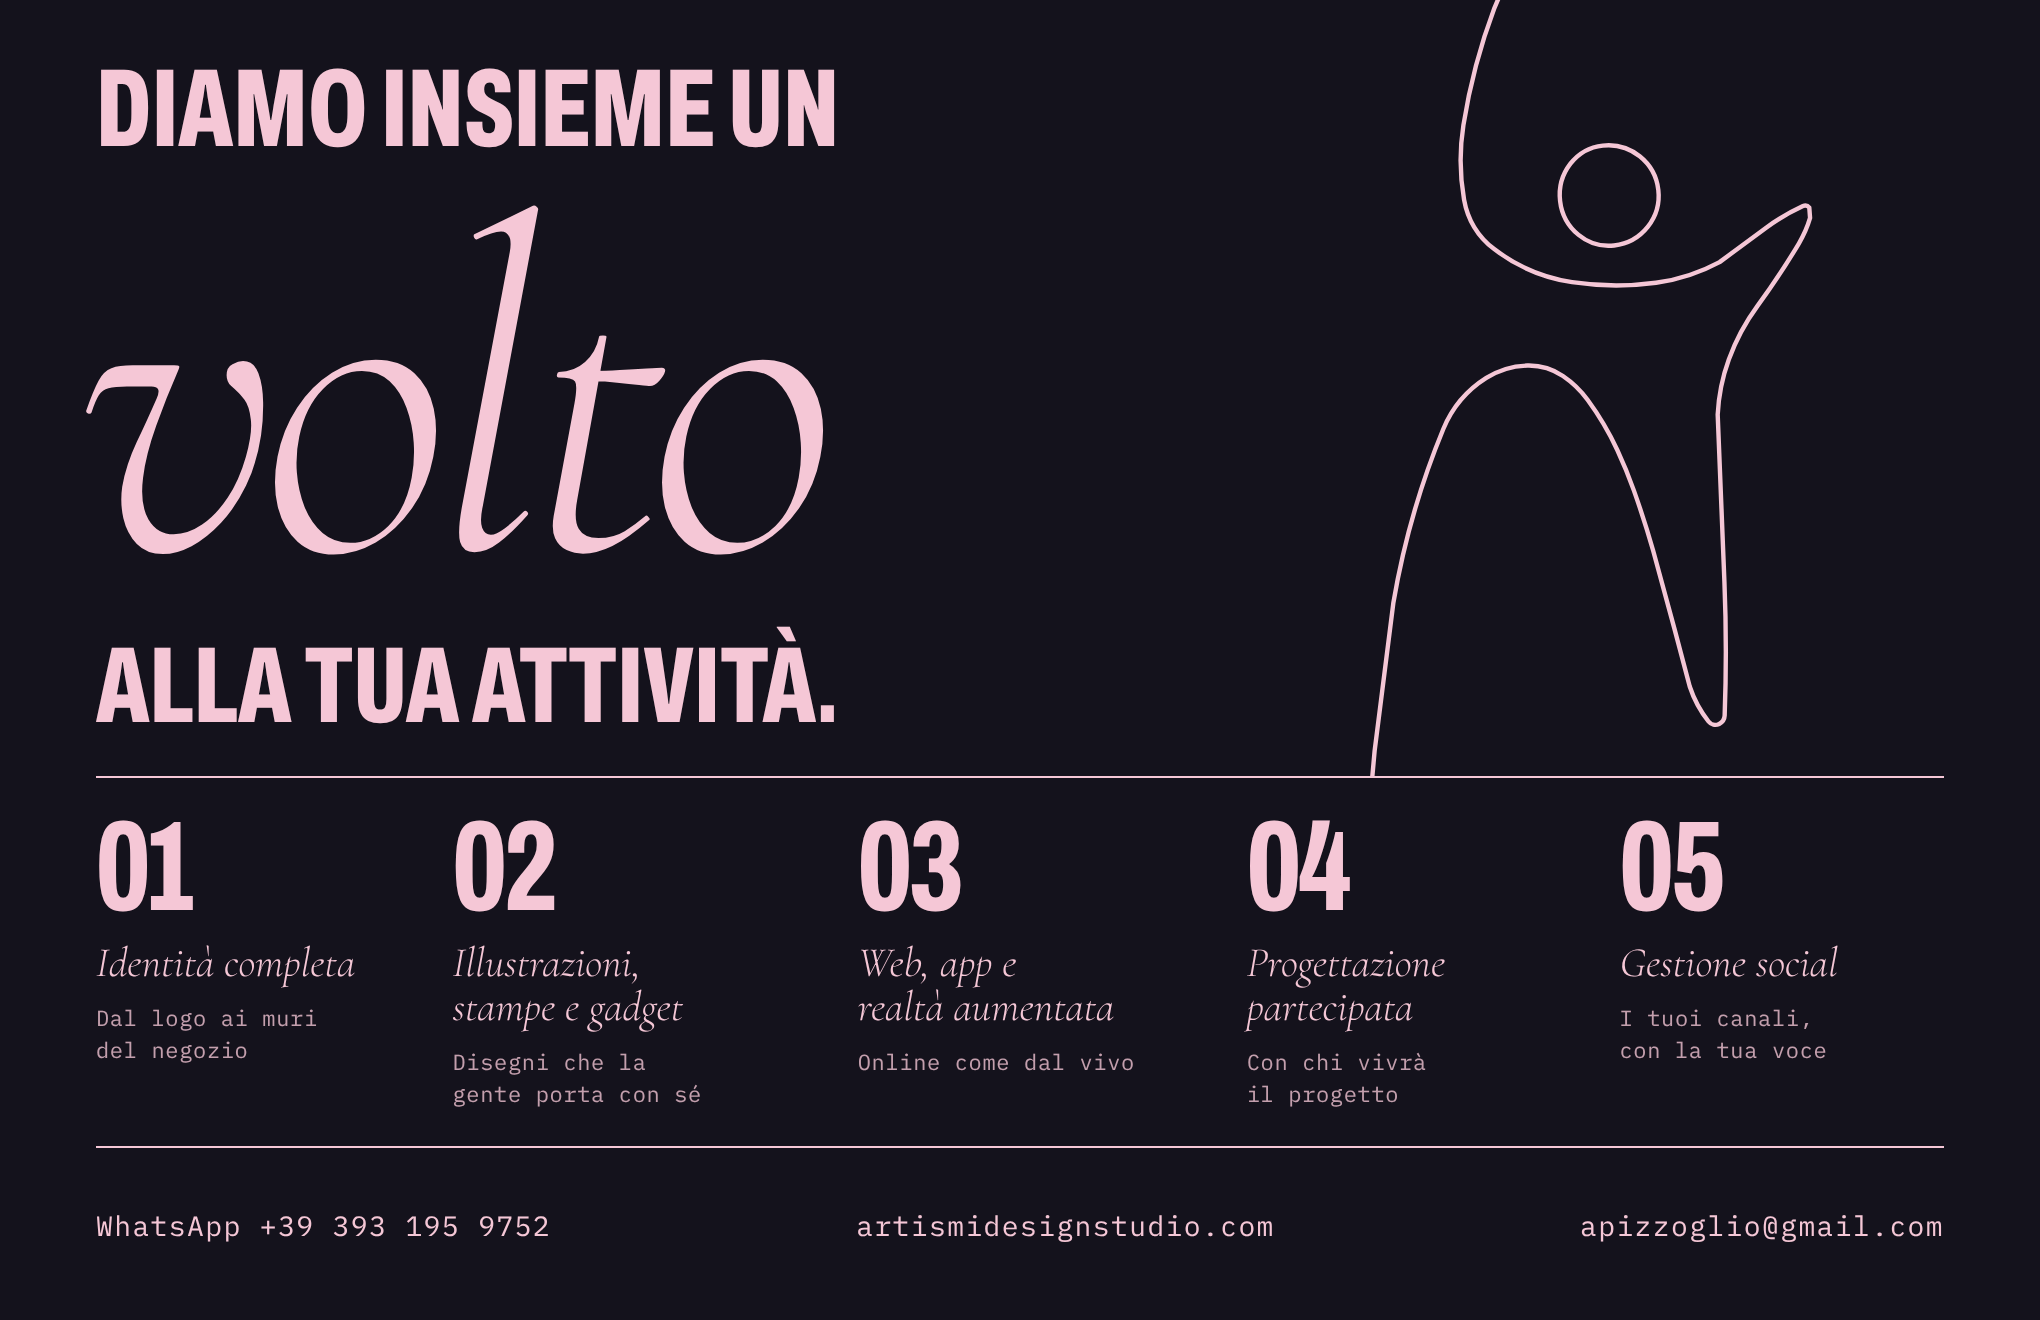
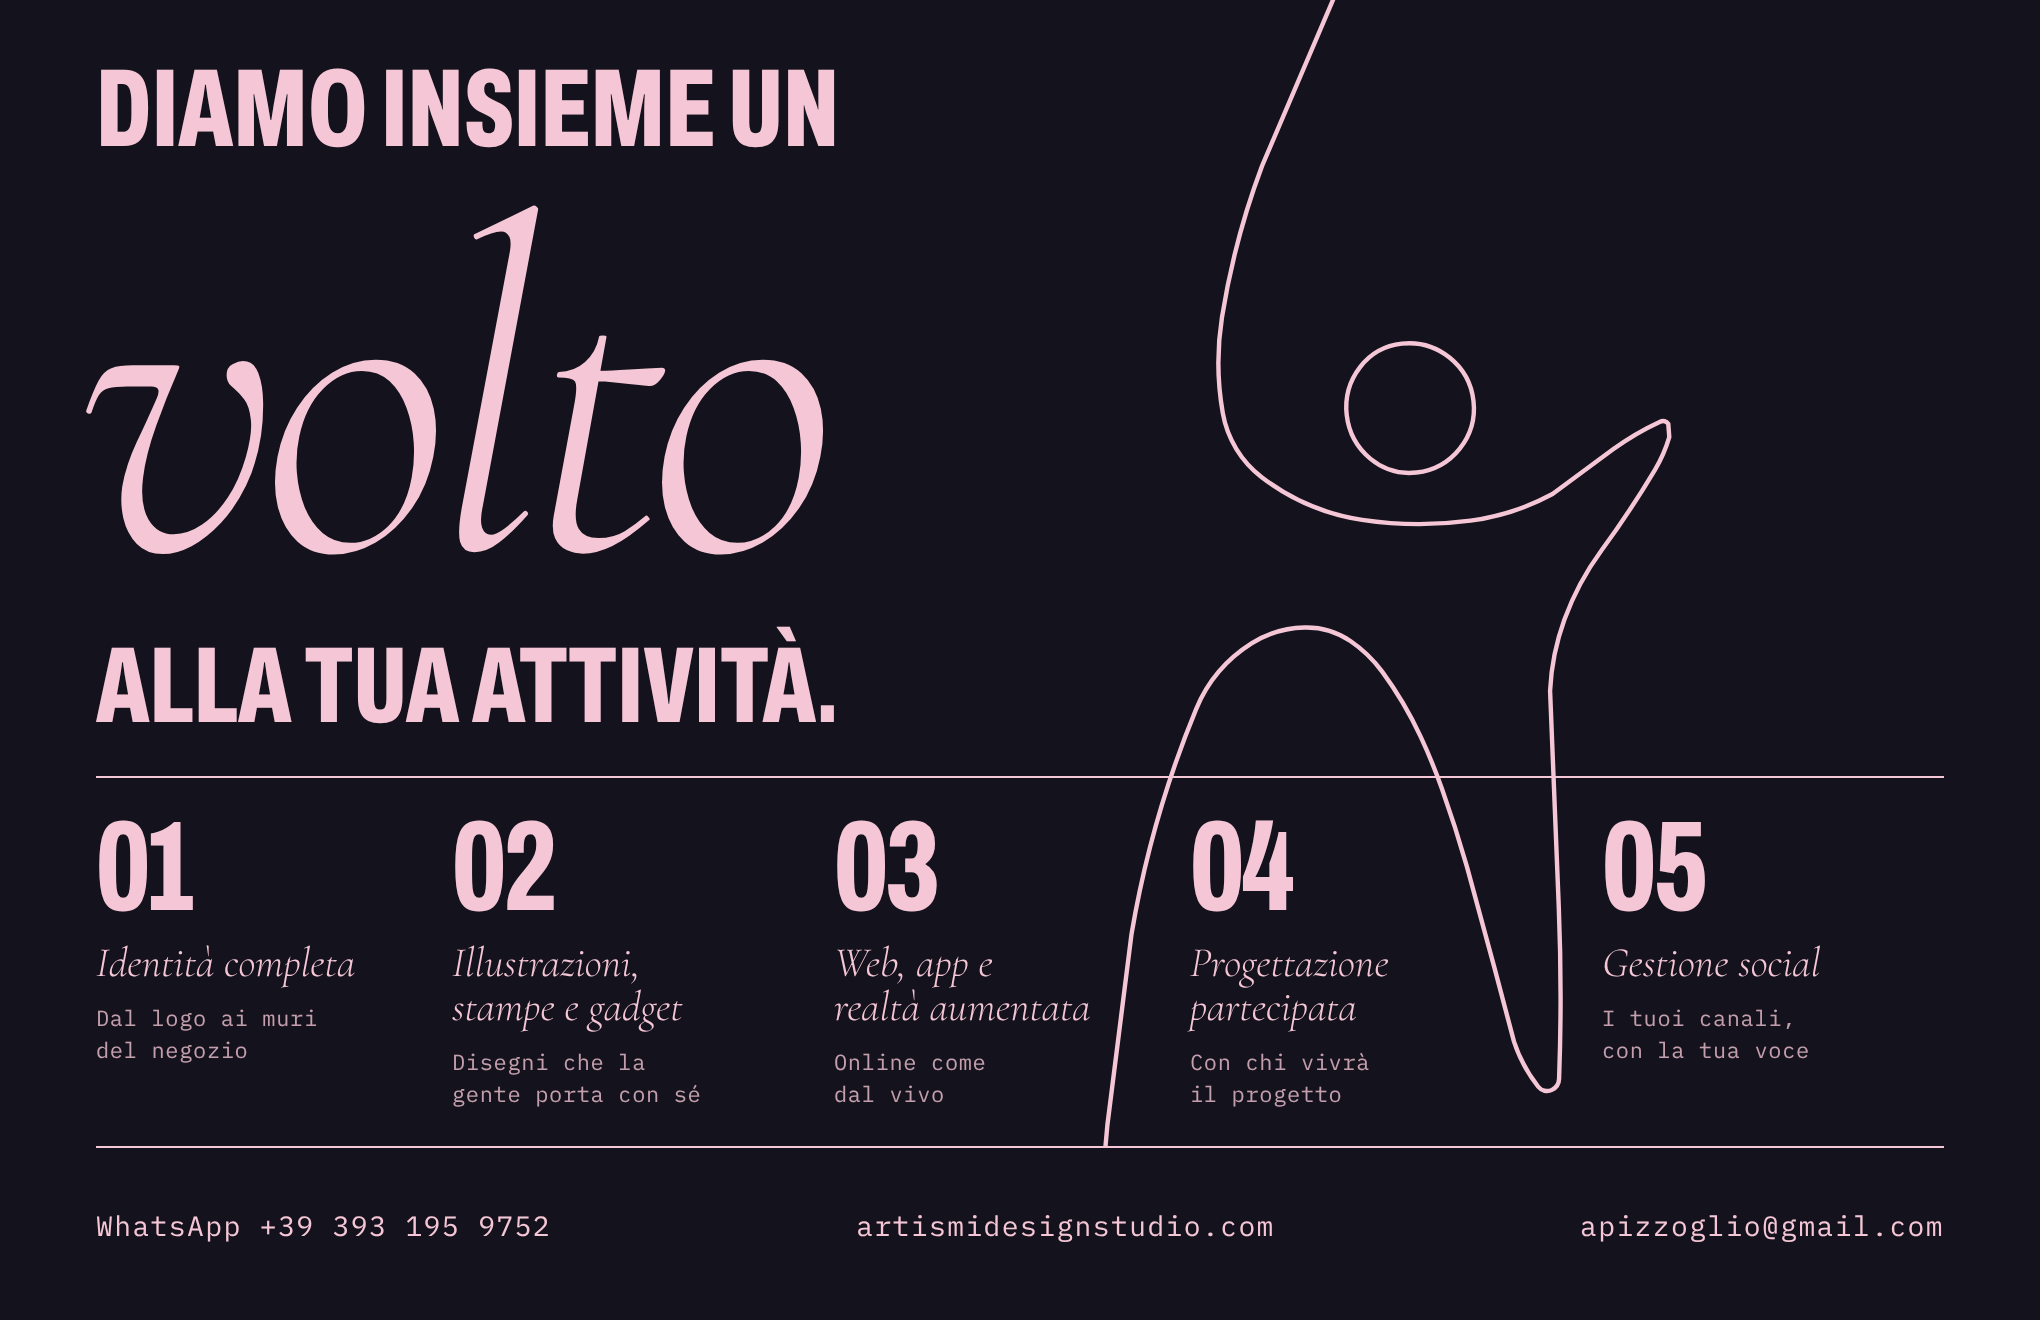
Biglietto, retro: l'omino scende fra i servizi, la gamba della m fra 03 e 04 e la punta della i fra 04 e 05; colonne dell'indice calibrate sulla figura
Claude-Session: https://claude.ai/code/session_017BM5XjeHCbJ6zegj574eXv

diff --git a/ar-print/biglietto-retro.html b/ar-print/biglietto-retro.html
@@ -15,13 +15,15 @@
   .m { font-family: "IBM Plex Mono", monospace; font-size: 14px; letter-spacing: .05em; line-height: 1.6; }
   .u { text-transform: uppercase; letter-spacing: .2em; font-size: 12px; }
 
-  .det { position: absolute; left: 0; top: 0; width: 1020px; height: 388px; overflow: hidden; }  /* la figura finisce sul filetto */
-  .det path { fill: none; stroke: #F5C7D6; stroke-width: 1.419; stroke-linejoin: round; stroke-linecap: round; }
+  .det { position: absolute; left: 0; top: 0; width: 1020px; height: 574px; overflow: hidden; }  /* la figura scende fra i servizi */
+  .det path { fill: none; stroke: #F5C7D6; stroke-width: 1.100; stroke-linejoin: round; stroke-linecap: round; }
   .claim { position: absolute; left: 48px; top: 34px; height: 330px; display: inline-flex; flex-direction: column; justify-content: space-between; align-items: flex-start; }
   .claim .a { display: block; font-size: 44px; line-height: .74; white-space: nowrap; letter-spacing: 0; }
   .claim .volto { display: block; font-size: 236px; line-height: .74; letter-spacing: -.035em; white-space: nowrap; margin-left: -10px; }
   .linea { position: absolute; left: 48px; right: 48px; height: 0; border-top: 1px solid #F5C7D6; }
-  .indice { position: absolute; left: 48px; right: 48px; top: 408px; list-style: none; display: grid; grid-template-columns: 1fr 1.15fr 1.1fr 1.05fr 1fr; gap: 16px; }
+  .indice { position: absolute; left: 48px; right: 48px; top: 408px; list-style: none; display: grid; grid-template-columns: 162px 175px 162px 190px 1fr; gap: 16px; }
+  .indice li:nth-child(3) > .m { max-width: 110px; }
+  .indice li:nth-child(4) > span { max-width: 128px; }  /* lo 04 sta fra la gamba della m e la gamba della i */
   .indice .a { display: block; font-size: 64px; line-height: .8; letter-spacing: -.02em; }
   .indice .c { display: block; margin-top: 12px; font-size: 21px; line-height: 1.05; text-wrap: balance; }
   .indice .m { display: block; margin-top: 9px; font-size: 11px; line-height: 1.45; letter-spacing: .03em; opacity: .78; text-wrap: balance; }
@@ -29,7 +31,7 @@
 
 </style></head>
 <body><div class="card">
-  <svg class="det" viewBox="0 0 1020 388"><g transform="translate(-505.96 -291.63) scale(1.5500)"><path d="M 842.7491491870207,88.40792444867843 A 2.43,2.43 0.0 0,1 845.56,88.88 A 4.19,4.19 0.0 0,1 846.61,92.94 A 397.87,397.87 0.0 0,1 833.72,131.68 L 808.52,190.67 A 193.84,193.84 0.0 0,0 798.49,228.56 A 72.37,72.37 0.0 0,0 798.7,252.51 A 25.81,25.81 0.0 0,0 808.43,268.51 A 54.76,54.76 0.0 0,0 833.54,279.17 A 95.45,95.45 0.0 0,0 860.63,279.37 A 60.43,60.43 0.0 0,0 881.13,272.7 L 896.27,261.52 A 70.24,70.24 0.0 0,1 908.03,254.62 A 1.67,1.67 0.0 0,1 910.07,255.13 L 910.32,258.47 A 35.85,35.85 0.0 0,1 906.7,266.71 A 259.81,259.81 0.0 0,1 893.31,286.9 A 69.32,69.32 0.0 0,0 884.11,304.09 A 60.26,60.26 0.0 0,0 880.52,321.9 L 882.69,375.85 A 556.83,556.83 0.0 0,1 882.77,418.93 A 3.2,3.2 0.0 0,1 881.0,421.67 A 2.8,2.8 0.0 0,1 877.56,420.89 A 36.89,36.89 0.0 0,1 871.5,409.61 L 866.6,391.1 L 859.71,365.8 A 322.56,322.56 0.0 0,0 853.44,346.25 A 149.95,149.95 0.0 0,0 848.13,333.3 A 95.23,95.23 0.0 0,0 838.54,317.11 A 32.71,32.71 0.0 0,0 830.6,309.45 A 19.54,19.54 0.0 0,0 819.11,306.07 A 26.02,26.02 0.0 0,0 805.88,310.07 A 35.47,35.47 0.0 0,0 792.01,326.54 A 261.41,261.41 0.0 0,0 775.88,382.72 L 769.85,430.42 L 766.57,467.03 L 765.2,507.64 L 764.3622779249334,514.4871663821559"/><path d="M 847.11,267.33 A 15.33,15.33 0.0 0,1 835.64,263.93 A 16.67,16.67 0.0 0,1 829.68,252.96 A 16.54,16.54 0.0 0,1 833.02,240.96 A 15.29,15.29 0.0 0,1 843.46,235.11 A 16.25,16.25 0.0 0,1 861.37,249.44 A 16.17,16.17 0.0 0,1 847.11,267.33"/></g></svg>
+  <svg class="det" viewBox="0 0 1020 574"><g transform="translate(-986.00 -298.40) scale(2.0000)"><path d="M 842.7491491870207,88.40792444867843 A 2.43,2.43 0.0 0,1 845.56,88.88 A 4.19,4.19 0.0 0,1 846.61,92.94 A 397.87,397.87 0.0 0,1 833.72,131.68 L 808.52,190.67 A 193.84,193.84 0.0 0,0 798.49,228.56 A 72.37,72.37 0.0 0,0 798.7,252.51 A 25.81,25.81 0.0 0,0 808.43,268.51 A 54.76,54.76 0.0 0,0 833.54,279.17 A 95.45,95.45 0.0 0,0 860.63,279.37 A 60.43,60.43 0.0 0,0 881.13,272.7 L 896.27,261.52 A 70.24,70.24 0.0 0,1 908.03,254.62 A 1.67,1.67 0.0 0,1 910.07,255.13 L 910.32,258.47 A 35.85,35.85 0.0 0,1 906.7,266.71 A 259.81,259.81 0.0 0,1 893.31,286.9 A 69.32,69.32 0.0 0,0 884.11,304.09 A 60.26,60.26 0.0 0,0 880.52,321.9 L 882.69,375.85 A 556.83,556.83 0.0 0,1 882.77,418.93 A 3.2,3.2 0.0 0,1 881.0,421.67 A 2.8,2.8 0.0 0,1 877.56,420.89 A 36.89,36.89 0.0 0,1 871.5,409.61 L 866.6,391.1 L 859.71,365.8 A 322.56,322.56 0.0 0,0 853.44,346.25 A 149.95,149.95 0.0 0,0 848.13,333.3 A 95.23,95.23 0.0 0,0 838.54,317.11 A 32.71,32.71 0.0 0,0 830.6,309.45 A 19.54,19.54 0.0 0,0 819.11,306.07 A 26.02,26.02 0.0 0,0 805.88,310.07 A 35.47,35.47 0.0 0,0 792.01,326.54 A 261.41,261.41 0.0 0,0 775.88,382.72 L 769.85,430.42 L 766.57,467.03 L 765.2,507.64 L 764.3622779249334,514.4871663821559"/><path d="M 847.11,267.33 A 15.33,15.33 0.0 0,1 835.64,263.93 A 16.67,16.67 0.0 0,1 829.68,252.96 A 16.54,16.54 0.0 0,1 833.02,240.96 A 15.29,15.29 0.0 0,1 843.46,235.11 A 16.25,16.25 0.0 0,1 861.37,249.44 A 16.17,16.17 0.0 0,1 847.11,267.33"/></g></svg>
   <h1 class="claim"><span class="a" data-fit="#volto">Diamo insieme un</span><span class="volto c" id="volto">volto</span><span class="a" data-fit="#volto">alla tua attività.</span></h1>
   <div class="linea" style="top:388px"></div>
   <ol class="indice"><li><span class="a">01</span><span class="c">Identità completa</span><span class="m">Dal logo ai muri del negozio</span></li><li><span class="a">02</span><span class="c">Illustrazioni, stampe e gadget</span><span class="m">Disegni che la gente porta con sé</span></li><li><span class="a">03</span><span class="c">Web, app e realtà aumentata</span><span class="m">Online come dal vivo</span></li><li><span class="a">04</span><span class="c">Progettazione partecipata</span><span class="m">Con chi vivrà il progetto</span></li><li><span class="a">05</span><span class="c">Gestione social</span><span class="m">I tuoi canali, con la tua voce</span></li></ol>

diff --git a/ar-print/varianti/retro-bc/biglietto-retro.html b/ar-print/varianti/retro-bc/biglietto-retro.html
@@ -15,13 +15,15 @@
   .m { font-family: "IBM Plex Mono", monospace; font-size: 14px; letter-spacing: .05em; line-height: 1.6; }
   .u { text-transform: uppercase; letter-spacing: .2em; font-size: 12px; }
 
-  .det { position: absolute; left: 0; top: 0; width: 1020px; height: 388px; overflow: hidden; }  /* la figura finisce sul filetto */
-  .det path { fill: none; stroke: #F5C7D6; stroke-width: 1.419; stroke-linejoin: round; stroke-linecap: round; }
+  .det { position: absolute; left: 0; top: 0; width: 1020px; height: 574px; overflow: hidden; }  /* la figura scende fra i servizi */
+  .det path { fill: none; stroke: #F5C7D6; stroke-width: 1.100; stroke-linejoin: round; stroke-linecap: round; }
   .claim { position: absolute; left: 48px; top: 34px; height: 330px; display: inline-flex; flex-direction: column; justify-content: space-between; align-items: flex-start; }
   .claim .a { display: block; font-size: 44px; line-height: .74; white-space: nowrap; letter-spacing: 0; }
   .claim .volto { display: block; font-size: 236px; line-height: .74; letter-spacing: -.035em; white-space: nowrap; margin-left: -10px; }
   .linea { position: absolute; left: 48px; right: 48px; height: 0; border-top: 1px solid #F5C7D6; }
-  .indice { position: absolute; left: 48px; right: 48px; top: 408px; list-style: none; display: grid; grid-template-columns: 1fr 1.15fr 1.1fr 1.05fr 1fr; gap: 16px; }
+  .indice { position: absolute; left: 48px; right: 48px; top: 408px; list-style: none; display: grid; grid-template-columns: 162px 175px 162px 190px 1fr; gap: 16px; }
+  .indice li:nth-child(3) > .m { max-width: 110px; }
+  .indice li:nth-child(4) > span { max-width: 128px; }  /* lo 04 sta fra la gamba della m e la gamba della i */
   .indice .a { display: block; font-size: 64px; line-height: .8; letter-spacing: -.02em; }
   .indice .c { display: block; margin-top: 12px; font-size: 21px; line-height: 1.05; text-wrap: balance; }
   .indice .m { display: block; margin-top: 9px; font-size: 11px; line-height: 1.45; letter-spacing: .03em; opacity: .78; text-wrap: balance; }
@@ -29,7 +31,7 @@
 
 </style></head>
 <body><div class="card">
-  <svg class="det" viewBox="0 0 1020 388"><g transform="translate(-505.96 -291.63) scale(1.5500)"><path d="M 842.7491491870207,88.40792444867843 A 2.43,2.43 0.0 0,1 845.56,88.88 A 4.19,4.19 0.0 0,1 846.61,92.94 A 397.87,397.87 0.0 0,1 833.72,131.68 L 808.52,190.67 A 193.84,193.84 0.0 0,0 798.49,228.56 A 72.37,72.37 0.0 0,0 798.7,252.51 A 25.81,25.81 0.0 0,0 808.43,268.51 A 54.76,54.76 0.0 0,0 833.54,279.17 A 95.45,95.45 0.0 0,0 860.63,279.37 A 60.43,60.43 0.0 0,0 881.13,272.7 L 896.27,261.52 A 70.24,70.24 0.0 0,1 908.03,254.62 A 1.67,1.67 0.0 0,1 910.07,255.13 L 910.32,258.47 A 35.85,35.85 0.0 0,1 906.7,266.71 A 259.81,259.81 0.0 0,1 893.31,286.9 A 69.32,69.32 0.0 0,0 884.11,304.09 A 60.26,60.26 0.0 0,0 880.52,321.9 L 882.69,375.85 A 556.83,556.83 0.0 0,1 882.77,418.93 A 3.2,3.2 0.0 0,1 881.0,421.67 A 2.8,2.8 0.0 0,1 877.56,420.89 A 36.89,36.89 0.0 0,1 871.5,409.61 L 866.6,391.1 L 859.71,365.8 A 322.56,322.56 0.0 0,0 853.44,346.25 A 149.95,149.95 0.0 0,0 848.13,333.3 A 95.23,95.23 0.0 0,0 838.54,317.11 A 32.71,32.71 0.0 0,0 830.6,309.45 A 19.54,19.54 0.0 0,0 819.11,306.07 A 26.02,26.02 0.0 0,0 805.88,310.07 A 35.47,35.47 0.0 0,0 792.01,326.54 A 261.41,261.41 0.0 0,0 775.88,382.72 L 769.85,430.42 L 766.57,467.03 L 765.2,507.64 L 764.3622779249334,514.4871663821559"/><path d="M 847.11,267.33 A 15.33,15.33 0.0 0,1 835.64,263.93 A 16.67,16.67 0.0 0,1 829.68,252.96 A 16.54,16.54 0.0 0,1 833.02,240.96 A 15.29,15.29 0.0 0,1 843.46,235.11 A 16.25,16.25 0.0 0,1 861.37,249.44 A 16.17,16.17 0.0 0,1 847.11,267.33"/></g></svg>
+  <svg class="det" viewBox="0 0 1020 574"><g transform="translate(-986.00 -298.40) scale(2.0000)"><path d="M 842.7491491870207,88.40792444867843 A 2.43,2.43 0.0 0,1 845.56,88.88 A 4.19,4.19 0.0 0,1 846.61,92.94 A 397.87,397.87 0.0 0,1 833.72,131.68 L 808.52,190.67 A 193.84,193.84 0.0 0,0 798.49,228.56 A 72.37,72.37 0.0 0,0 798.7,252.51 A 25.81,25.81 0.0 0,0 808.43,268.51 A 54.76,54.76 0.0 0,0 833.54,279.17 A 95.45,95.45 0.0 0,0 860.63,279.37 A 60.43,60.43 0.0 0,0 881.13,272.7 L 896.27,261.52 A 70.24,70.24 0.0 0,1 908.03,254.62 A 1.67,1.67 0.0 0,1 910.07,255.13 L 910.32,258.47 A 35.85,35.85 0.0 0,1 906.7,266.71 A 259.81,259.81 0.0 0,1 893.31,286.9 A 69.32,69.32 0.0 0,0 884.11,304.09 A 60.26,60.26 0.0 0,0 880.52,321.9 L 882.69,375.85 A 556.83,556.83 0.0 0,1 882.77,418.93 A 3.2,3.2 0.0 0,1 881.0,421.67 A 2.8,2.8 0.0 0,1 877.56,420.89 A 36.89,36.89 0.0 0,1 871.5,409.61 L 866.6,391.1 L 859.71,365.8 A 322.56,322.56 0.0 0,0 853.44,346.25 A 149.95,149.95 0.0 0,0 848.13,333.3 A 95.23,95.23 0.0 0,0 838.54,317.11 A 32.71,32.71 0.0 0,0 830.6,309.45 A 19.54,19.54 0.0 0,0 819.11,306.07 A 26.02,26.02 0.0 0,0 805.88,310.07 A 35.47,35.47 0.0 0,0 792.01,326.54 A 261.41,261.41 0.0 0,0 775.88,382.72 L 769.85,430.42 L 766.57,467.03 L 765.2,507.64 L 764.3622779249334,514.4871663821559"/><path d="M 847.11,267.33 A 15.33,15.33 0.0 0,1 835.64,263.93 A 16.67,16.67 0.0 0,1 829.68,252.96 A 16.54,16.54 0.0 0,1 833.02,240.96 A 15.29,15.29 0.0 0,1 843.46,235.11 A 16.25,16.25 0.0 0,1 861.37,249.44 A 16.17,16.17 0.0 0,1 847.11,267.33"/></g></svg>
   <h1 class="claim"><span class="a" data-fit="#volto">Diamo insieme un</span><span class="volto c" id="volto">volto</span><span class="a" data-fit="#volto">alla tua attività.</span></h1>
   <div class="linea" style="top:388px"></div>
   <ol class="indice"><li><span class="a">01</span><span class="c">Identità completa</span><span class="m">Dal logo ai muri del negozio</span></li><li><span class="a">02</span><span class="c">Illustrazioni, stampe e gadget</span><span class="m">Disegni che la gente porta con sé</span></li><li><span class="a">03</span><span class="c">Web, app e realtà aumentata</span><span class="m">Online come dal vivo</span></li><li><span class="a">04</span><span class="c">Progettazione partecipata</span><span class="m">Con chi vivrà il progetto</span></li><li><span class="a">05</span><span class="c">Gestione social</span><span class="m">I tuoi canali, con la tua voce</span></li></ol>

diff --git a/scripts/biglietto-retri.py b/scripts/biglietto-retri.py
@@ -138,23 +138,26 @@ from svgpathtools import parse_path
 _P = parse_path(D); _sp = _P.continuous_subpaths()
 FIG = _sp[0].cropped(0.75455, 0.9236).d()           # dalla punta in alto (842, 88) giu' fino a (764, 515) sulla gamba della m
 TESTA = _sp[6].d()                                  # il pallino
-SC = 1.55                                           # la punta in alto esce di sopra; la gamba della m finisce sul filetto
-FTX, FTY = 905 - 910.3 * SC, 362 - 421.7 * SC       # braccio a 905 px, punta della gamba a 362 px, sopra il filetto
+SC = 2.0                                            # la punta in alto esce di sopra
+FTX, FTY = 772 - 879 * SC, 545 - 421.7 * SC         # la punta della i scende fra 04 e 05 (772 px), la gamba della m fra 03 e 04
+FONDO = 660 - 86                                    # la figura si ferma sul filetto di sotto
 TOP, H = 34, 330                 # il claim, sopra il filetto dei servizi
 RIGA = 388                       # il filetto: sotto ci sono i servizi, la figura ci finisce sopra
 scrivi('retro-bc', NOTTE, ROSA, f'''
-  .det {{ position: absolute; left: 0; top: 0; width: 1020px; height: {RIGA}px; overflow: hidden; }}  /* la figura finisce sul filetto */
+  .det {{ position: absolute; left: 0; top: 0; width: 1020px; height: {FONDO}px; overflow: hidden; }}  /* la figura scende fra i servizi */
   .det path {{ fill: none; stroke: {ROSA}; stroke-width: {2.2 / SC:.3f}; stroke-linejoin: round; stroke-linecap: round; }}
   .claim {{ position: absolute; left: 48px; top: {TOP}px; height: {H}px; display: inline-flex; flex-direction: column; justify-content: space-between; align-items: flex-start; }}
   .claim .a {{ display: block; font-size: 44px; line-height: .74; white-space: nowrap; letter-spacing: 0; }}
   .claim .volto {{ display: block; font-size: 236px; line-height: .74; letter-spacing: -.035em; white-space: nowrap; margin-left: -10px; }}
   .linea {{ position: absolute; left: 48px; right: 48px; height: 0; border-top: 1px solid {ROSA}; }}
-  .indice {{ position: absolute; left: 48px; right: 48px; top: {RIGA + 20}px; list-style: none; display: grid; grid-template-columns: 1fr 1.15fr 1.1fr 1.05fr 1fr; gap: 16px; }}
+  .indice {{ position: absolute; left: 48px; right: 48px; top: {RIGA + 20}px; list-style: none; display: grid; grid-template-columns: 162px 175px 162px 190px 1fr; gap: 16px; }}
+  .indice li:nth-child(3) > .m {{ max-width: 110px; }}
+  .indice li:nth-child(4) > span {{ max-width: 128px; }}  /* lo 04 sta fra la gamba della m e la gamba della i */
   .indice .a {{ display: block; font-size: 64px; line-height: .8; letter-spacing: -.02em; }}
   .indice .c {{ display: block; margin-top: 12px; font-size: 21px; line-height: 1.05; text-wrap: balance; }}
   .indice .m {{ display: block; margin-top: 9px; font-size: 11px; line-height: 1.45; letter-spacing: .03em; opacity: .78; text-wrap: balance; }}
   .piede {{ position: absolute; left: 48px; right: 48px; bottom: 36px; display: flex; justify-content: space-between; }}
-''', f'''  <svg class="det" viewBox="0 0 1020 {RIGA}"><g transform="translate({FTX:.2f} {FTY:.2f}) scale({SC:.4f})"><path d="{FIG}"/><path d="{TESTA}"/></g></svg>
+''', f'''  <svg class="det" viewBox="0 0 1020 {FONDO}"><g transform="translate({FTX:.2f} {FTY:.2f}) scale({SC:.4f})"><path d="{FIG}"/><path d="{TESTA}"/></g></svg>
   <h1 class="claim"><span class="a" data-fit="#volto">Diamo insieme un</span><span class="volto c" id="volto">volto</span><span class="a" data-fit="#volto">alla tua attività.</span></h1>
   <div class="linea" style="top:{RIGA}px"></div>
   <ol class="indice">{"".join(f'<li><span class="a">{i+1:02d}</span><span class="c">{t}</span><span class="m">{x}</span></li>' for i, (t, x) in enumerate(zip(SERVIZI, DETTAGLI)))}</ol>
